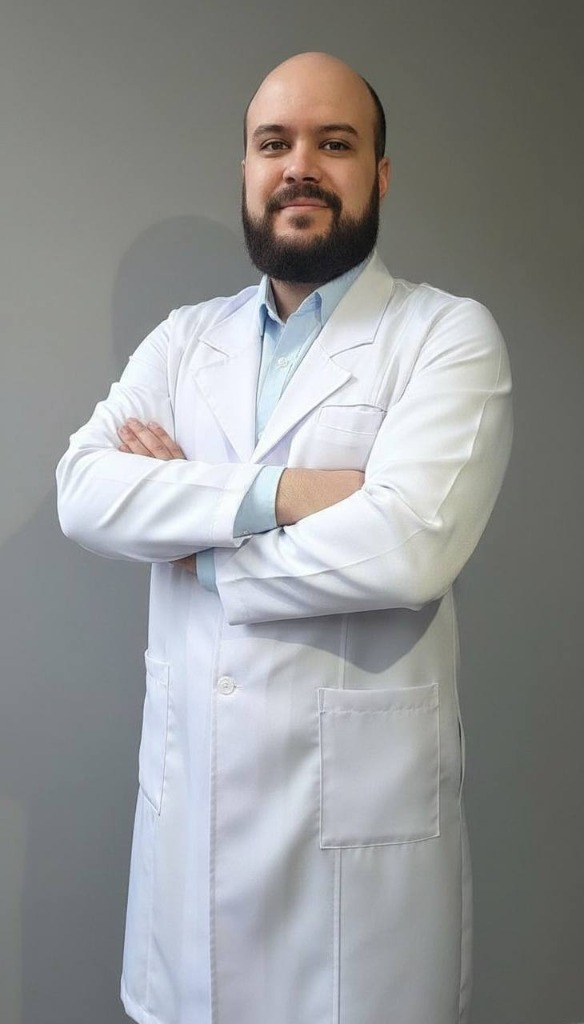
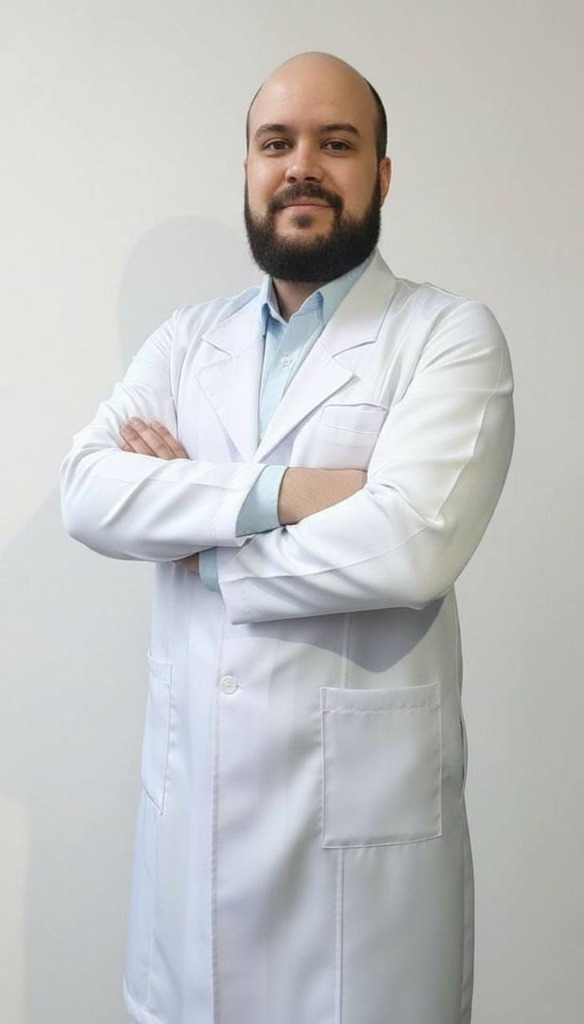
✨ Perfect button styling & new photo
- Changed gradient button text to white (#FFFFFF)
- Enhanced hover: scale(1.02) + brightness(1.1) + lift
- Improved shadow on hover
- Updated profile photo to new professional image
- SVG icons scale to 1.1 on hover

diff --git a/style.css b/style.css
@@ -181,13 +181,15 @@ p {
 
 .btn-primary {
     background: linear-gradient(135deg, var(--color-blue), var(--color-blue-light));
-    color: var(--color-light);
+    color: #FFFFFF;
     box-shadow: var(--shadow-md);
+    border: none;
 }
 
 .btn-primary:hover {
-    transform: translateY(-2px);
-    box-shadow: var(--shadow-lg), var(--shadow-glow);
+    transform: translateY(-3px) scale(1.02);
+    box-shadow: 0 8px 24px rgba(36, 71, 108, 0.3);
+    filter: brightness(1.1);
 }
 
 /* Enhanced WhatsApp SVG icon in buttons */
@@ -198,7 +200,7 @@ p {
 
 .btn-primary:hover svg {
     filter: drop-shadow(0 0 8px rgba(255, 255, 255, 0.6));
-    transform: scale(1.05);
+    transform: scale(1.1);
 }
 
 .btn-secondary {
@@ -1048,7 +1050,9 @@ section {
     .profile-stats {
         flex-direction: column;
     }
-}/* ===================================
+}
+
+/* ===================================
    Contact Section - New Design
    =================================== */
 .contact {
@@ -1257,7 +1261,9 @@ section {
     .contact-grid {
         grid-template-columns: 1fr;
     }
-}/* ===================================
+}
+
+/* ===================================
    Cookie Banner - Modern Design
    =================================== */
 .cookie-banner {
@@ -1354,7 +1360,9 @@ section {
         width: 100%;
         justify-content: center;
     }
-}/* ===================================
+}
+
+/* ===================================
    Floating Buttons - WhatsApp & Back to Top
    =================================== */
 
